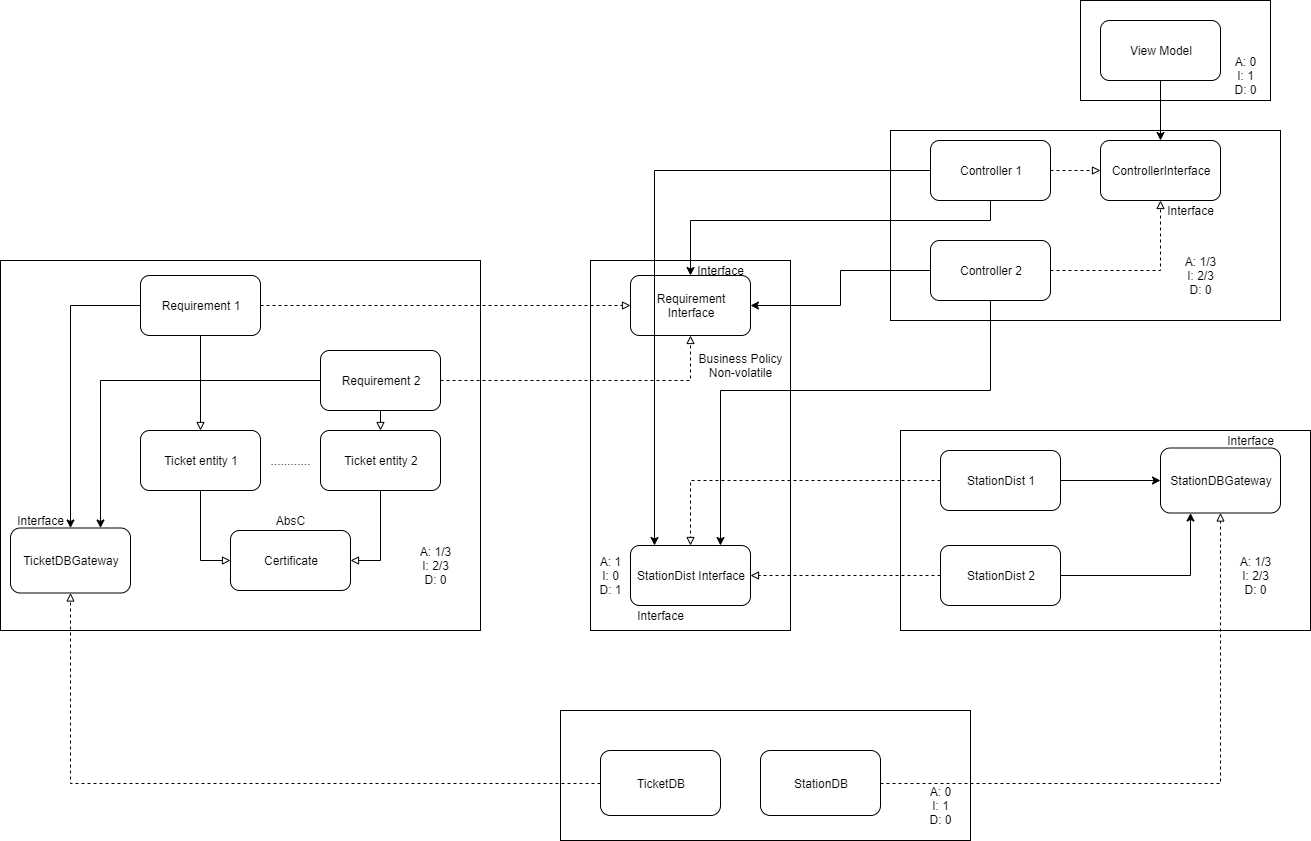
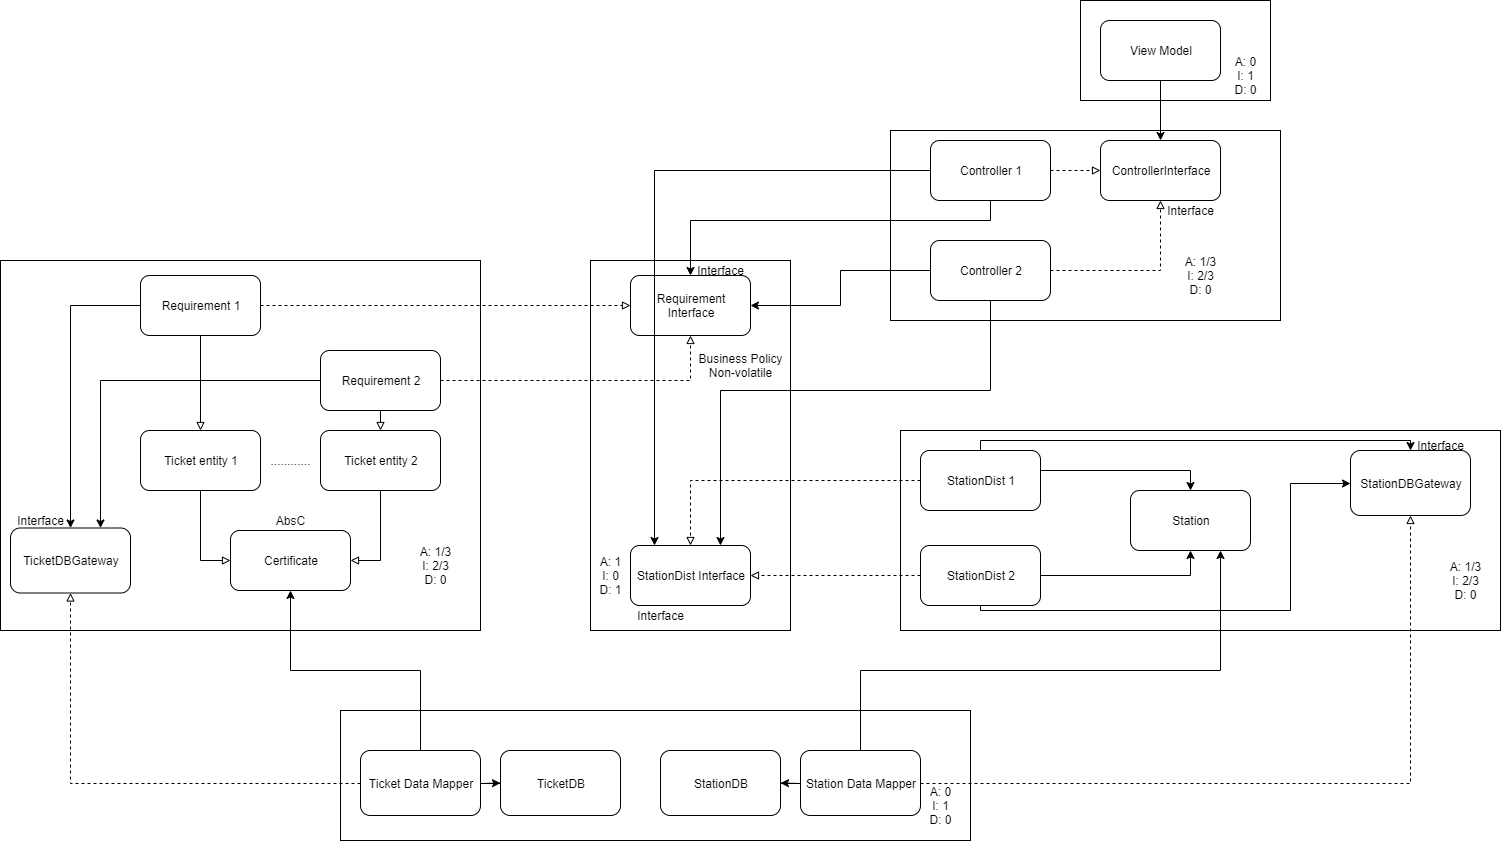
Put more details into interfaces, add some entities and update the diagram

diff --git a/AFC/src/certificate_interactor/CertificateDBGateway.java b/AFC/src/certificate_interactor/CertificateDBGateway.java
@@ -1,0 +1,6 @@
+package certificate_interactor;
+
+public interface CertificateDBGateway {
+	public Certificate getCertificate(String certificateId);
+	public boolean updateCertificate(String certificateId, Certificate newCertificate);
+}

diff --git a/AFC/src/interactor/StationDistInterface.java b/AFC/src/interactor/StationDistInterface.java
@@ -1,5 +1,5 @@
 package interactor;
 
 public interface StationDistInterface {
-
+	public float getDistance(int startingStationId, int endingStationId);
 }

diff --git a/AFC/src/station_interactor/StationDBGateway.java b/AFC/src/station_interactor/StationDBGateway.java
@@ -1,5 +1,5 @@
 package station_interactor;
 
 public interface StationDBGateway {
-
+	public Station getStationInformation(int stationId);
 }

diff --git a/AFC/src/certificate_interactor/Certificate.java b/AFC/src/certificate_interactor/Certificate.java
@@ -1,5 +1,5 @@
 package certificate_interactor;
 
-public interface TicketDBGateway {
+public class Certificate {
 
 }

diff --git a/AFC/src/station_interactor/Station.java b/AFC/src/station_interactor/Station.java
@@ -1,0 +1,5 @@
+package station_interactor;
+
+public class Station {
+	
+}
